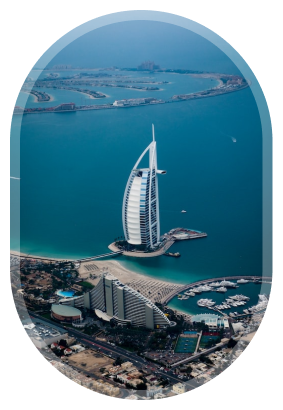
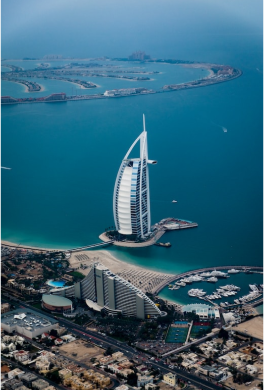
commit

diff --git a/src/App.css b/src/App.css
@@ -166,7 +166,7 @@
 
 }
 
-.z_neg2{
+.z_neg2 {
   z-index: -2;
 }
 
@@ -204,9 +204,6 @@
   border-radius: 56px;
 }
 
-
-
-
 .nav-tabs .nav-link.active {
   background-color: #313EF7 !important;
   color: white !important;
@@ -235,11 +232,38 @@
   font-size: 18px !important;
   color: #030522 !important;
   padding: 16px 39px !important;
+  position: relative !important;
+}
+
+.nav-tabs .nav-link::after {
+  content: ' ';
+  position: absolute;
+  width: 4px;
+  right: -4px;
+  height: 50%;
+  border-left: 1px solid #F3F4F6;
+}
+
+.dotline_before::before {
+  content: ' ';
+  position: absolute;
+  left: 19px;
+  top: 29px;
+  width: 10px;
+  height: 64%;
+  z-index: -1;
+  border-left: 2px dashed #E5E7EB;
+}
+
+.outlineimg {
+  border-radius: 200px;
+  outline: 15px solid rgba(255, 255, 255, 0.3);
+  outline-offset: -15px;
 }
 
 .our_box {
   background: #FFFFFF;
-  box-shadow: 0px 100px 200px rgba(1, 23, 54, 0.1);
+  box-shadow: 0px 30px 15px rgba(1, 23, 54, 0.1);
   border-radius: 185px;
   height: 380px;
   max-width: 300px;
@@ -288,14 +312,14 @@ ul .bluecircle {
 .travelars_box {
   background: #FFFFFF;
   border-radius: 213px;
-  box-shadow: 5px 70px 70px rgba(1, 23, 54, 0.05);
+  box-shadow: 0px 30px 40px rgba(1, 23, 54, 0.05);
   width: 282px;
   height: 420px;
 }
 
 .feedbackbox {
   background: #FFFFFF;
-  box-shadow: 0px 100px 200px rgba(1, 23, 54, 0.1);
+  box-shadow: 0px 20px 20px rgba(1, 23, 54, 0.1);
   border-radius: 20px;
   padding: 30px 21px;
 }
@@ -316,11 +340,26 @@ ul .bluecircle {
   justify-content: space-between;
   font-family: 'Rubik', sans-serif;
   font-size: 20px;
+  width: 40%;
+}
+
+::placeholder {
+  font-family: 'Rubik',
+    sans-serif;
+  font-style: normal;
+  font-weight: 400;
+  font-size: 20px;
+  color: #AEB5BF;
 }
 
 .inputtext {
   border: none;
   outline: none;
+  font-family: 'Rubik', sans-serif;
+  font-style: normal;
+  font-weight: 400;
+  font-size: 20px;
+  color: #AEB5BF;
 }
 
 .btn_sub {
@@ -429,14 +468,18 @@ ul .bluecircle {
 }
 
 @media (max-width:1024px) {
-   .text_aviation {
-     letter-spacing: 0.4em;
-     font-size: 110px;
-     opacity: 0.5;
-     top: -20px;
-     color: #06072B;
-     text-shadow: 0 0 3px white;
-   }
+  .text_aviation {
+    letter-spacing: 0.4em;
+    font-size: 110px;
+    opacity: 0.5;
+    top: -20px;
+    color: #06072B;
+    text-shadow: 0 0 3px white;
+  }
+
+  .emailinput {
+    width: 70%;
+  }
 }
 
 @media (max-width:992px) {
@@ -518,6 +561,14 @@ ul .bluecircle {
     color: #06072B;
     text-shadow: 0 0 3px white;
   }
+
+  .emailinput {
+    width: 99%;
+  }
+
+  .w_100 {
+    width: 100%;
+  }
 }
 
 
@@ -537,12 +588,12 @@ ul .bluecircle {
   }
 }
 
-.airoplaneani{
+/* .airoplaneani{
   animation: airoplane 6s ease-in alternate;
   position: relative;
-}
+} */
 
-@keyframes airoplane {
+/* @keyframes airoplane {
   0% {
     width: 0%;
     top: -200px;
@@ -570,8 +621,59 @@ ul .bluecircle {
     transform: rotate(60deg) scale(1.5);
 
   }
+} */
+
+.airoplaneani {
+  animation: airoplane 6s ease-in alternate;
+  position: relative;
 }
-.shadow_position{
+
+@keyframes airoplane {
+  0% {
+    width: 0%;
+    top: -100px;
+    left: 100%;
+    transform: rotate(50deg);
+  }
+
+  40% {
+    transform: rotate(20deg);
+  }
+
+  70% {
+    transform: rotate(0deg);
+  }
+
+  100% {
+    width: 100%;
+    top: 0;
+    left: 0;
+    transform: rotate(0deg);
+  }
+}
+
+.shadow_position {
+  animation: shadow 6s linear alternate;
+}
+
+@keyframes shadow {
+  0% {
+    opacity: 0;
+  }
+  40% {
+    opacity: 0;
+  }
+  70% {
+    opacity: 0;
+  }
+
+  100% {
+    opacity: 1;
+  }
+
+}
+
+/* .shadow_position{
   animation: shadow 6s linear alternate;
 }
 @keyframes shadow {
@@ -591,4 +693,4 @@ ul .bluecircle {
     opacity: 0;
   }
   
-}
+} */

diff --git a/src/components/Memories.jsx b/src/components/Memories.jsx
@@ -8,7 +8,7 @@ import Slider from "react-slick";
 
 const Memories = () => {
      var settings = {
-        dots: true,
+
         infinite: true,
         speed: 500,
         slidesToShow: 4,
@@ -46,29 +46,29 @@ const Memories = () => {
             <p className='ff_montserrat fw_700 fs_40 cl_011736 text-center pb-sm-4'>Make memories with us</p>            
 
              <Slider {...settings}>
-      <div className='d-flex justify-content-center'>
-        <img src={memories1} alt="" />
+      <div className='d-flex justify-content-center px-2'>
+        <img src={memories1} alt="" className='w-100 outlineimg'/>
       </div>
-      <div className='d-flex justify-content-center'>
-        <img src={memories2} alt="" className='mt-5' />
+      <div className='d-flex justify-content-center px-2'>
+        <img src={memories2} alt="" className='mt-5 w-100 outlineimg' />
       </div>
-      <div className='d-flex justify-content-center'>
-        <img src={memories3} alt="" />
+      <div className='d-flex justify-content-center px-2'>
+        <img src={memories3} alt="" className='w-100 outlineimg'/>
       </div>
-      <div className='d-flex justify-content-center'>
-        <img src={memories4} alt="" className='mt-5'/>
+      <div className='d-flex justify-content-center px-2'>
+        <img src={memories4} alt="" className='mt-5 w-100 outlineimg'/>
       </div>
-      <div className='d-flex justify-content-center'>
-        <img src={memories1} alt="" />
+      <div className='d-flex justify-content-center px-2'>
+        <img src={memories1} alt="" className='w-100 outlineimg'/>
       </div>
-      <div className='d-flex justify-content-center'>
-        <img src={memories2} alt="" className='mt-5' />
+      <div className='d-flex justify-content-center px-2'>
+        <img src={memories2} alt="" className='mt-5 w-100 outlineimg'/>
       </div>
-      <div className='d-flex justify-content-center'>
-        <img src={memories3} alt="" />
+      <div className='d-flex justify-content-center px-2'>
+        <img src={memories3} alt="" className='w-100 outlineimg'/>
       </div>
-      <div className='d-flex justify-content-center'>
-        <img src={memories4} alt="" className='mt-5'/>
+      <div className='d-flex justify-content-center px-2'>
+        <img src={memories4} alt="" className='mt-5 w-100 outlineimg'/>
       </div>
     </Slider>
         </Container>

diff --git a/src/components/Letsfly.jsx b/src/components/Letsfly.jsx
@@ -6,7 +6,7 @@ import Bluebtn from './Bluebtn'
 const Letsfly = () => {
   return (
     <>
-        <Container className='py-5'>
+        <Container className='pb-5'>
             <Row className='py-5 align-items-center'>
                 <Col lg={6}>
                     <img src={newyorkgroup} alt="newyork" className='w-100'/>                                     
@@ -16,7 +16,7 @@ const Letsfly = () => {
                         <p className='ff_montserrat fw_900 fs_20 cl_bluelight mb-3'>Let’s Fly</p><p className='line ms-2'></p>
                     </div>
                     <p className='ff_montserrat fw_700 fs_32 cl_lightblack mb-4'>It’s one of the leading online flight booking platforms in the world</p>
-                    <ul className='pt-3'>
+                    <ul className='pt-3 dotline_before position-relative'>
                         <li className='ff_montserrat fw_500 fs_16 cl_lightblack bluecircle'>
                             Contrary to popular belief, Lorem Ipsum is not simply random text
                         </li>

diff --git a/src/components/FlightTickets.jsx b/src/components/FlightTickets.jsx
@@ -9,10 +9,10 @@ const FlightTickets = () => {
         <section className='bg_darkblue'>
             <Container>
                 <Row className='pt-5'>
-                    <Col md={6} className='p-4 d-flex flex-column align-items-center'>
+                    <Col md={6} className='p-4'>
                         <p className='ff_montserrat fw_700 fs_40 cl_white w_450'>Book Popular Flight Tickets</p>
                         <p className='ff_montserrat fw_400 fs_16 cl_graylight w_450 mb-4'>Lorem Ipsum is simply dummy text of the printing and typesetting industry. Lorem Ipsum has been the industry's</p>
-                        <img src={popularflight} alt="Air Delivery"/>
+                        <img src={popularflight} alt="Air Delivery" className='w_100 '/>
                     </Col>
                     <Col md={6} className='pb-5'>
                         <img src={ecnomy} alt="" className='w-100'/>

diff --git a/src/components/Hero.jsx b/src/components/Hero.jsx
@@ -71,7 +71,7 @@ const Hero = () => {
             <img className='z-index_1 airoplaneani' src={airoplane} alt="airoplane" />
             <img className='shadow_position w-100 ' src={shadow} alt="shadow"/>
           </div>          
-            <p className='ff_montserrat fw_700 fs_48 cl_white pt-4 mb-2'>Travel around the world</p>
+            <p className='ff_montserrat fw_700 fs_48 cl_white pt-4 mb-2'>Travel Around The World</p>
             <p className='ff_montserrat fw_400 fs_12 cl_white mb-5 pb-5'>One of the advantages of being disorganized is that one is always having surprising discoveries</p>
           </div>
        </Container>

diff --git a/src/components/Ourfeatures.jsx b/src/components/Ourfeatures.jsx
@@ -41,7 +41,7 @@ const Ourfeatures = () => {
        <Container className='overflow-hidden'>
             <h2 className='text-center ff_montserrat fw_700 fs_40 cl_lightblack pt-5'>Our Features</h2>
             <Slider {...ourfeature}>
-      <div className='pt-4 px-3 mx-1'>
+      <div className='pt-4 px-3 mx-1 pb-5'>
         <div  className='our_box d-flex flex-column align-items-center p_28_21_41 mt-5'>
                         <span>
                         <svg width="70" height="70" viewBox="0 0 70 70" fill="none" xmlns="http://www.w3.org/2000/svg">

diff --git a/src/components/Travelsheet.jsx b/src/components/Travelsheet.jsx
@@ -88,7 +88,7 @@ const Travelsheet = () => {
           </div>
         </Row>
       </Tab>
-      <Tab eventKey="busniness" title="Busniness ">
+      <Tab eventKey="busniness" title="Busniness">
          <Row>
           <Col lg={3} sm={6} className='pt-4 pt-lg-0'>
                 <div className='d-flex pb-4 pt_40   ps-3 ps-lg-0 justify-content-lg-center '>

diff --git a/src/components/Besttravelars.jsx b/src/components/Besttravelars.jsx
@@ -12,7 +12,6 @@ import Slider from "react-slick";
 
 const Besttravelars = () => {
     var best = {
-        dots: true,
         infinite: true,
         speed: 500,
         slidesToShow: 4,

diff --git a/src/App.js b/src/App.js
@@ -16,7 +16,6 @@ import Footer from './components/Footer';
 function App() {
   return (
     <>
-      
       <Hero/>
       <Travelsheet/>
       <Ourfeatures/>

diff --git a/src/components/Subscribe.jsx b/src/components/Subscribe.jsx
@@ -16,7 +16,6 @@ const Subscribe = () => {
                 </div>
             </Container>    
         </section>
-        
     </>
   )
 }
